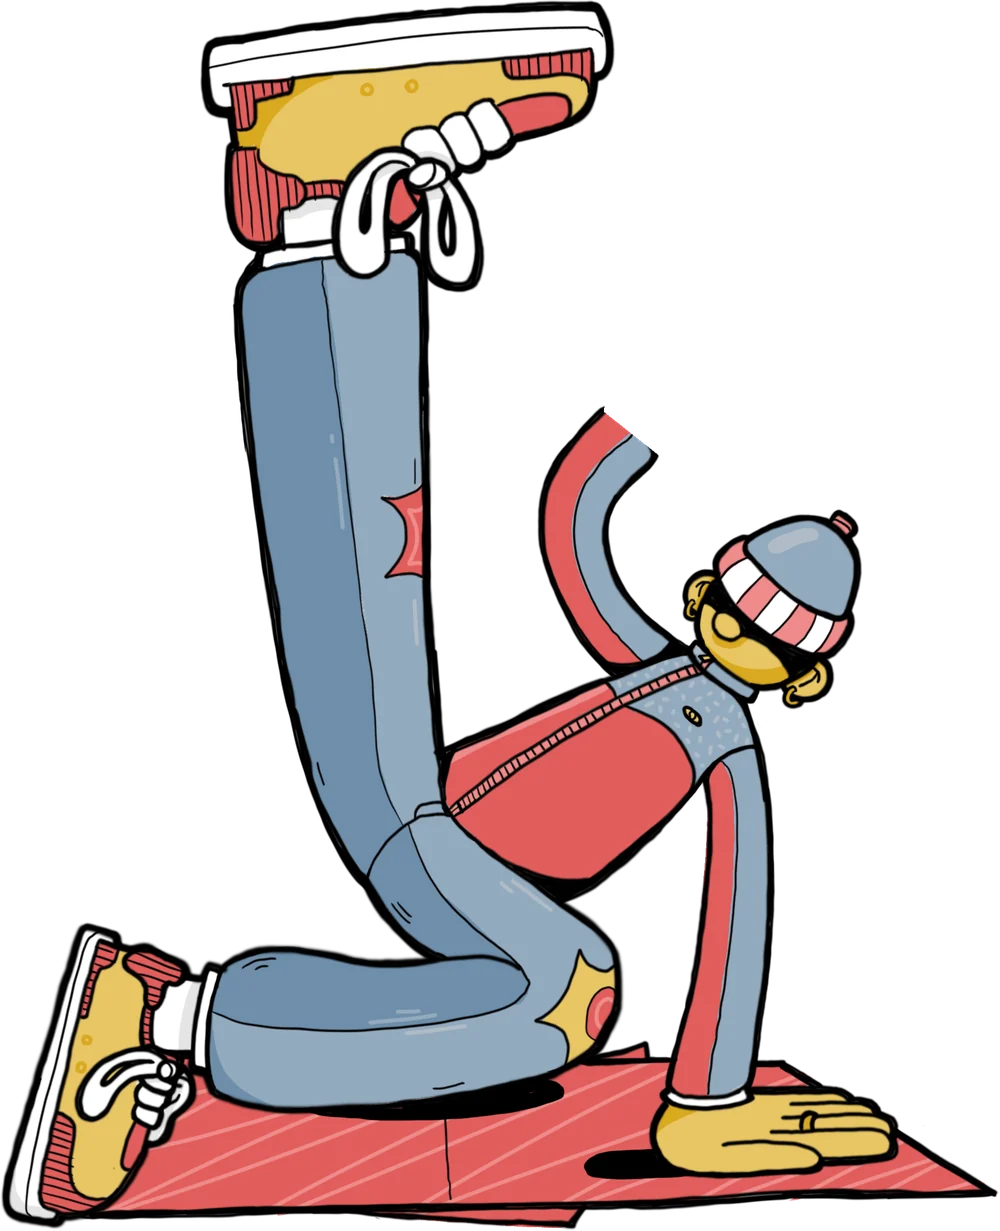
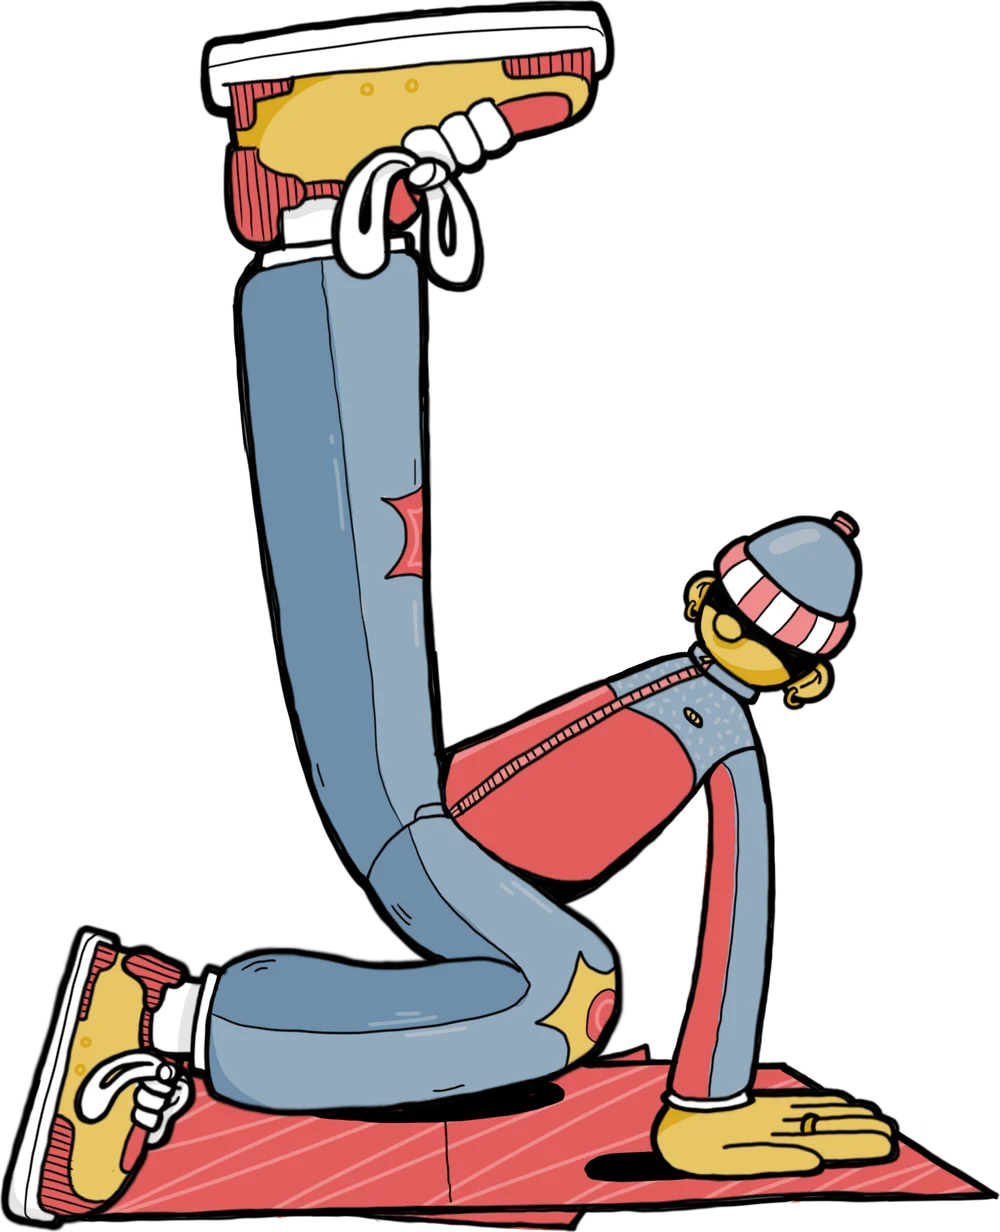
Hero b-boy: shoulder wave using Josh's own arm and body layers
Josh cut the raised arm out and filled the join in Photoshop. The arm
sits behind the body layer and swings from the shoulder, so there's no
seam at any point in the wave.

Claude-Session: https://claude.ai/code/session_01WkPPr7APMxww9GCZuXhuvB

diff --git a/assets/css/styles.css b/assets/css/styles.css
@@ -243,26 +243,25 @@ a { color: inherit; }
 /* Artwork and stickers */
 .hero__stage { position: relative; padding: 18px; }
 /* B-boy illustration, rocking gently on his planted hand and waving.
-   Two layers drawn on the same canvas: his raised hand, and everything else. */
+   Two layers drawn on the same canvas: his raised arm (behind), and everything else. */
 .hero__bboy {
   position: relative;
   width: min(100%, 440px);
-  aspect-ratio: 1000 / 1231;
+  aspect-ratio: 1803 / 2221;
   margin: 0 auto;
   transform-origin: 75% 92%;
   animation: bboy-rock 3.5s ease-in-out infinite;
 }
 .hero__bboy img { position: absolute; inset: 0; width: 100%; height: 100%; }
-.hero__bboy-hand {
-  transform-origin: 63.3% 35.3%; /* his wrist */
-  animation: bboy-wave 1.8s ease-in-out infinite;
+.hero__bboy-arm {
+  transform-origin: 63.3% 53.9%; /* his shoulder */
+  animation: bboy-wave 1.6s ease-in-out infinite;
 }
 @keyframes bboy-wave {
-  0%, 60%, 100% { rotate: 0deg; }
-  12% { rotate: 13deg; }
-  24% { rotate: -8deg; }
-  36% { rotate: 13deg; }
-  48% { rotate: -6deg; }
+  0%, 100% { rotate: -4deg; }
+  25% { rotate: 8deg; }
+  50% { rotate: -2deg; }
+  75% { rotate: 8deg; }
 }
 @media (max-width: 959px) { .hero__bboy { width: min(80%, 320px); } }
 .hero__stage .sticker--age { left: auto; bottom: auto; right: 6%; top: 18%; }
@@ -304,7 +303,7 @@ a { color: inherit; }
 }
 
 @media (prefers-reduced-motion: reduce) {
-  .hero__sun, .hero__bboy, .hero__bboy-hand, .hero__title img { animation: none; }
+  .hero__sun, .hero__bboy, .hero__bboy-arm, .hero__title img { animation: none; }
 }
 
 /* Ribbon */

diff --git a/index.html b/index.html
@@ -63,9 +63,9 @@
 
         <div class="hero__stage">
           <div class="hero__bboy" role="img" aria-label="Illustration of a b-boy in a beanie and tracksuit holding a freeze on a red mat, waving.">
-<img class="hero__bboy-body" src="assets/img/bboy-body-1000.webp" srcset="assets/img/bboy-body-560.webp 560w, assets/img/bboy-body-1000.webp 1000w" sizes="(min-width: 960px) 440px, 80vw" width="1000" height="1231" alt="">
-            <!-- Hand sits in front and waves from the wrist; the white cuff hides the joint -->
-            <img class="hero__bboy-hand" src="assets/img/bboy-hand-1000.webp" srcset="assets/img/bboy-hand-560.webp 560w, assets/img/bboy-hand-1000.webp 1000w" sizes="(min-width: 960px) 440px, 80vw" width="1000" height="1231" alt="">
+            <!-- Arm sits behind the body (Josh's own layers) so the shoulder never shows a seam -->
+            <img class="hero__bboy-arm" src="assets/img/bboy-arm-1000.webp" srcset="assets/img/bboy-arm-560.webp 560w, assets/img/bboy-arm-1000.webp 1000w" sizes="(min-width: 960px) 440px, 80vw" width="1000" height="1232" alt="">
+            <img class="hero__bboy-body" src="assets/img/bboy-body-1000.webp" srcset="assets/img/bboy-body-560.webp 560w, assets/img/bboy-body-1000.webp 1000w" sizes="(min-width: 960px) 440px, 80vw" width="1000" height="1232" alt="">
           </div>
           <span class="sticker sticker--date" aria-hidden="true">June<br>2027</span>
           <span class="sticker sticker--stages" aria-hidden="true">10 stages<br>&amp; a boozer</span>
